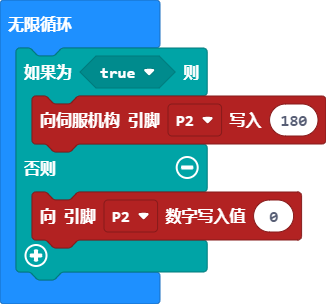
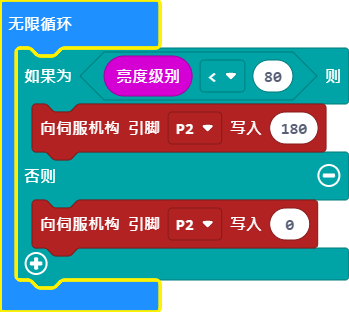
更新 main.blocks, main.ts

diff --git a/main.ts b/main.ts
@@ -1,7 +1,7 @@
 basic.forever(function () {
-    if (true) {
+    if (input.lightLevel() < 80) {
         pins.servoWritePin(AnalogPin.P2, 180)
     } else {
-        pins.digitalWritePin(DigitalPin.P2, 0)
+        pins.servoWritePin(AnalogPin.P2, 0)
     }
 })
